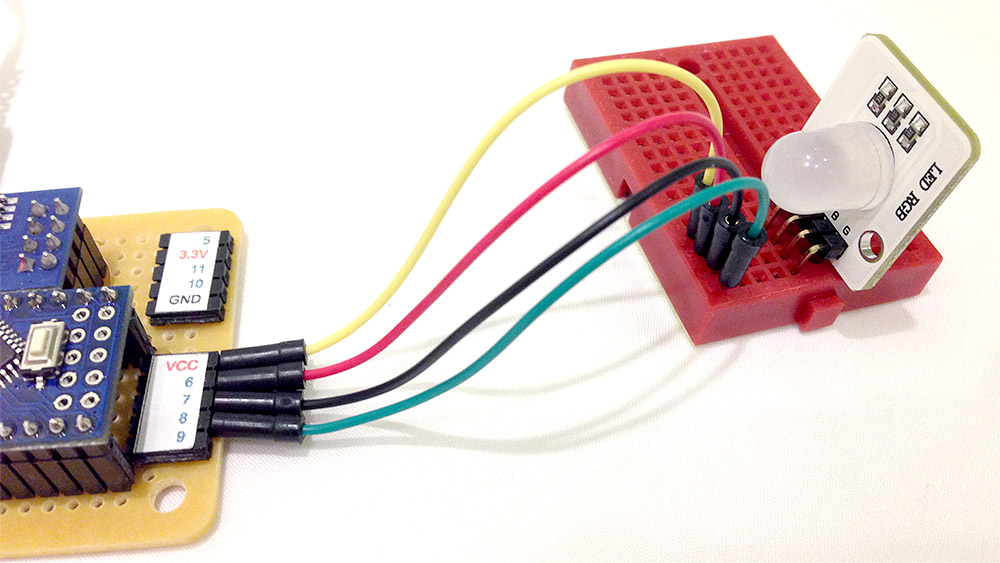
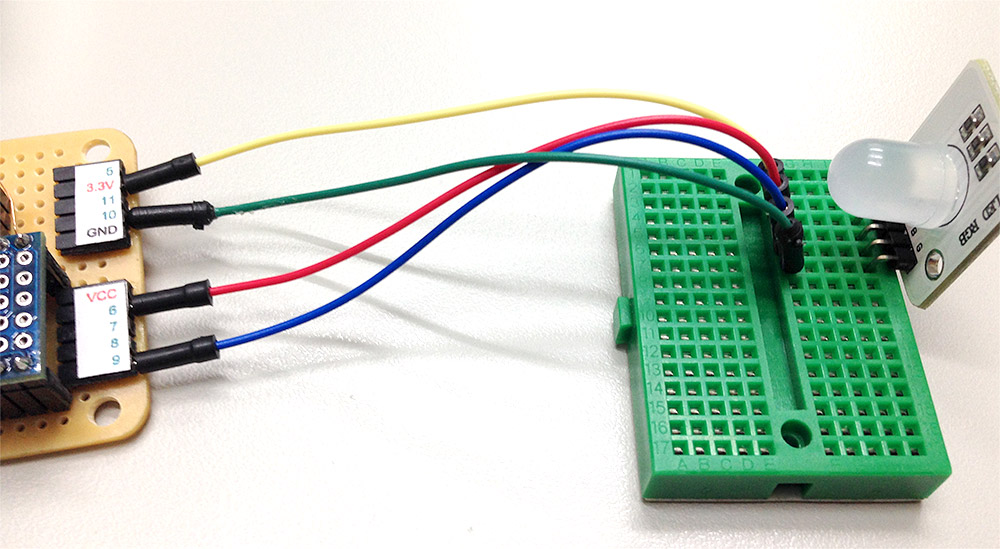
add content and images

diff --git a/tutorials/tutorial-09-button-led.html b/tutorials/tutorial-09-button-led.html
@@ -83,11 +83,29 @@
 			<img src="../img/tutorials/tutorial-09-01.jpg">
 		</div>
 		<h1>範例與教學 9：利用按鈕控制 LED 燈</h1>
-		<p>之前的範例提到的都只是控制單一台的 Webduino，這個範例將會展示，如何藉由 Webduino A 的按鈕點壓的動作，去觸發另外一台 Webduino B 的 LED 燈。
+		<p>之前的範例提到的都只是控制單一台的 Webduino，這個範例將會展示，如何藉由 Webduino 開發板 ( A 板 ) 的按鈕，去觸發另外一台 Webduino 開發板 ( B 板 ) 的 LED 燈，同時你也可以藉由網頁上的按鈕模擬實際按鈕的動作。
 		</p>
 		<h2>範例影片展示</h2>
 		<p><iframe class="youtube" src="https://www.youtube.com/embed/56DFEZ3hVaA" frameborder="0" allowfullscreen></iframe>
 		</p>
+		<h2>接線與實作</h2>
+		<ul>
+			<li>
+				<h3>1. 接上按鈕與 LED</h3>
+				<span>按鈕是一個很常見的元件，當我們進行點壓的時候，按鈕上的四隻腳會呈現全部通路的情形，為了避免有短路的發生，所以我們要接一顆電阻進行保護，下圖是利用 webduino 開發板 ( A 板 ) 與麵包板所接出來的按鈕範例，這裏我們會用到腳位 3.3v、11 與 GND。</span>
+				<img src="../img/tutorials/tutorial-09-02.jpg" />
+			</li>
+			<li>
+				<h3>2. 接上 LED</h3>
+				<span>在另外一塊 webduino 開發板 ( B 板 ) 接上 LED，長腳接在 11，短腳接在 GND。</span>
+				<img src="../img/tutorials/tutorial-09-03.jpg" />
+			</li>
+			<li>
+				<h3>3. 完成後的實際長相</h3>
+				<img src="../img/tutorials/tutorial-09-04.jpg" />
+				<img src="../img/tutorials/tutorial-09-05.jpg" />
+			</li>
+		</ul>
 		<h2>範例程式 ( <a href="http://webduinoio.github.io/samples/content/button-led/index.html" target="_blank">預覽</a> )</h2>
 		<p>
 		</p>

diff --git a/tutorials/tutorial-07-ultrasonic-led.html b/tutorials/tutorial-07-ultrasonic-led.html
@@ -86,8 +86,21 @@
 		<p>對於直接寫 C/C++ 來控制 Arduino 的人來說，用超音波傳感器控制 LED 應該是小菜一碟，但對於要用 Web 技術來實現就沒那麼容易，不過在我們由前面幾個範例了解相關傳感器運作原理之後，就可以很輕鬆的做出來用超音波傳感器控制 LED 燈的實例，也因為是透過 Web 的方式，所以當行為觸發時，網頁端同時也可以收到動作的發生，相當的方便。 
 		</p>
 		<h2>範例影片展示</h2>
-		<p><iframe class="youtube" src="https://www.youtube.com/embed/WFB5MdgSdk4" frameborder="0" allowfullscreen></iframe>
+		<p><iframe class="youtube" src="https://www.youtube.com/embed/pRMjbzPXWvw" frameborder="0" allowfullscreen></iframe>
 		</p>
+		<h2>接線與實作</h2>
+		<ul>
+			<li>
+				<h3>1. 接上超音波傳感器與 LED 燈</h3>
+				<span>因為超音波傳感器與 LED 都必須用到 GND 的腳位，所以我們必須要用到麵包板和電線，同樣用電線引出腳位，把超音波傳感器的 VCC 接在 3.3v，Trig 接在 11，Echo 接在 10，GND 就接在 GND 的腳位，然後再用另外的電線將 LED 接在 9 的腳位上。</span>
+				<img src="../img/tutorials/tutorial-07-02.jpg" />
+			</li>
+			<li>
+				<h3>2. 完成後的實際長相</h3>
+				<img src="../img/tutorials/tutorial-07-03.jpg" />
+				<img src="../img/tutorials/tutorial-07-04.jpg" />
+			</li>
+		</ul>
 		<h2>範例程式 ( <a href="http://webduinoio.github.io/samples/content/ultrasonic-led/index.html" target="_blanks">預覽</a> )</h2>
 	</div>
 

diff --git a/tutorials/tutorial-05-ultrasonic.html b/tutorials/tutorial-05-ultrasonic.html
@@ -85,6 +85,21 @@
 		<h1>範例教學 5：控制超音波傳感器</h1>
 		<p>超音波傳感器顧名思義就是會發送超音波，藉由超音波碰撞到物體之後反射回來的時間差，就可以計算超音波傳感器與相對應物體之間的距離，在這個範例裡頭使用的超音波傳感器 HC-SR04 上頭有兩個類似喇叭的裝置，其中一個是 Trig，負責發送超音波，另外一個是 Echo，負責接收反射回來的超音波，最後會得到一個單位為「公分」的數值，就是超音波傳感器與待測物體之間的距離。
 		</p>
+		<h2>範例影片展示</h2>
+		<p><iframe class="youtube" src="https://www.youtube.com/embed/8BTArcDVYJ8" frameborder="0" allowfullscreen></iframe>
+		</p>
+		<h2>接線與實作</h2>
+		<ul>
+			<li>
+				<h3>1. 接上超音波傳感器</h3>
+				<span>這裏我們要把超音波傳感器的 VCC 接在 3.3v，Trig 接在 11，Echo 接在 10，GND 就接在 GND 的腳位，你可以用麵包板接出來，也可以直接就把超音波傳感器跟 Webduino 開發板組合即可。</span>
+				<img src="../img/tutorials/tutorial-05-02.jpg" />
+			</li>
+			<li>
+				<h3>2. 完成後的實際長相</h3>
+				<img src="../img/tutorials/tutorial-05-03.jpg" />
+			</li>
+		</ul>
 		<h2>範例程式 ( <a href="http://webduinoio.github.io/samples/content/ultrasonic/index.html" target="_blank">預覽</a> )</h2>
 		<p>
 		</p>

diff --git a/tutorials/tutorial-06-ultrasonic-imagesize.html b/tutorials/tutorial-06-ultrasonic-imagesize.html
@@ -86,8 +86,20 @@
 		<p>在上一個範例我們了解了超音波傳感器的運作原理，在這個範例就來做點應用，藉由超音波傳感器回傳的公分數值，對應到網頁裡頭圖片的寬度，就可以非常輕鬆地做出一個利用超音波傳感器控制圖片大小的實例囉。
 		</p>
 		<h2>範例影片展示</h2>
-		<p><iframe class="youtube" src="https://www.youtube.com/embed/e8qoF2sk4ZA" frameborder="0" allowfullscreen></iframe>
+		<p><iframe class="youtube" src="https://www.youtube.com/embed/7ED9YSy7EjA" frameborder="0" allowfullscreen></iframe>
 		</p>
+		<h2>接線與實作</h2>
+		<ul>
+			<li>
+				<h3>1. 接上超音波傳感器</h3>
+				<span>和上一個範例完全一樣，只要把超音波傳感器的 VCC 接在 3.3v，Trig 接在 11，Echo 接在 10，GND 就接在 GND 的腳位，你可以用麵包板接出來，也可以直接就把超音波傳感器跟 Webduino 開發板組合即可。</span>
+				<img src="../img/tutorials/tutorial-05-02.jpg" />
+			</li>
+			<li>
+				<h3>2. 完成後的實際長相</h3>
+				<img src="../img/tutorials/tutorial-05-03.jpg" />
+			</li>
+		</ul>
 		<h2>範例程式 ( <a href="http://webduinoio.github.io/samples/content/ultrasonic-picture/index.html" target="_blank">預覽</a> )</h2>
 	</div>
 

diff --git a/tutorials/tutorial-04-rgbled-palette.html b/tutorials/tutorial-04-rgbled-palette.html
@@ -86,7 +86,7 @@
 		<p><a href='tutorial-03-rgbled.html'>上一篇</a> 介紹過三色 LED 的原理，不過由於部分接腳受限於 PWM 的限制 ( 脈衝寬度調變，<b>Webduino 開發板的 6、9、10、11 才有 PWM</b> )，所以上一篇只能控制顏色的亮暗，這一篇將要來更換部分接腳，並利用 Web 裡頭常見的 slider range ( 拉霸 )，來控制三色 LED 燈的顏色強弱，同時在網頁裡頭對應相同的色彩。
 		</p>
 		<h2>範例影片展示</h2>
-		<p><iframe class="youtube" src="https://www.youtube.com/embed/QZInj3h0Bfc" frameborder="0" allowfullscreen></iframe>
+		<p><iframe class="youtube" src="https://www.youtube.com/embed/QdzMDe0hIpQ" frameborder="0" allowfullscreen></iframe>
 		</p>
 		<h2>接線與實作</h2>
 		<ul>
@@ -98,6 +98,7 @@
 			<li>
 				<h3>2. 完成後的實際長相</h3>
 				<img src="../img/tutorials/tutorial-04-03.jpg" />
+				<img src="../img/tutorials/tutorial-04-04.jpg" />
 			</li>
 		</ul>
 		<h2>範例解析 ( <a href="http://webduinoio.github.io/samples/content/rgbled-palette/index.html" target="_blank">快速體驗</a>、<a href="http://jsbin.com/dasufu/3/edit?html,js,output" target="_blank">jsbin 範例</a>、<a href="http://webduino.io/device.html" target="_blank">檢查連線狀態</a> )</h2>

diff --git a/tutorials/tutorial-08-ultrasonic-rgbled.html b/tutorials/tutorial-08-ultrasonic-rgbled.html
@@ -88,6 +88,20 @@
 		<h2>範例影片展示</h2>
 		<p><iframe class="youtube" src="https://www.youtube.com/embed/vV5e17Xc8CM" frameborder="0" allowfullscreen></iframe>
 		</p>
+		<h2>接線與實作</h2>
+		<ul>
+			<li>
+				<h3>1. 接上超音波傳感器與三色 LED 燈</h3>
+				<span>雖然超音波傳感器與三色 LED 可以分別用 webduino 的兩個排插來接，但因為體積的關係，所以我們必須要用到麵包板和電線，用電線引出腳位，把超音波傳感器的 VCC 接在 3.3v，Trig 接在 11，Echo 接在 10，GND 就接在 GND 的腳位，三色 LED 的 VCC 接在 VCC 的腳位，紅色 R 接 6，藍色 B 接 7，綠色 G 接 8。</span>
+				<img src="../img/tutorials/tutorial-08-02.jpg" />
+			</li>
+			<li>
+				<h3>2. 完成後的實際長相</h3>
+				<img src="../img/tutorials/tutorial-08-03.jpg" />
+				<img src="../img/tutorials/tutorial-08-04.jpg" />
+				<img src="../img/tutorials/tutorial-08-05.jpg" />
+			</li>
+		</ul>
 		<h2>範例程式 ( <a href="http://webduinoio.github.io/samples/content/ultrasonic-rgbled/index.html" target="_blank">預覽</a> )</h2>
 		<p>
 		</p>
